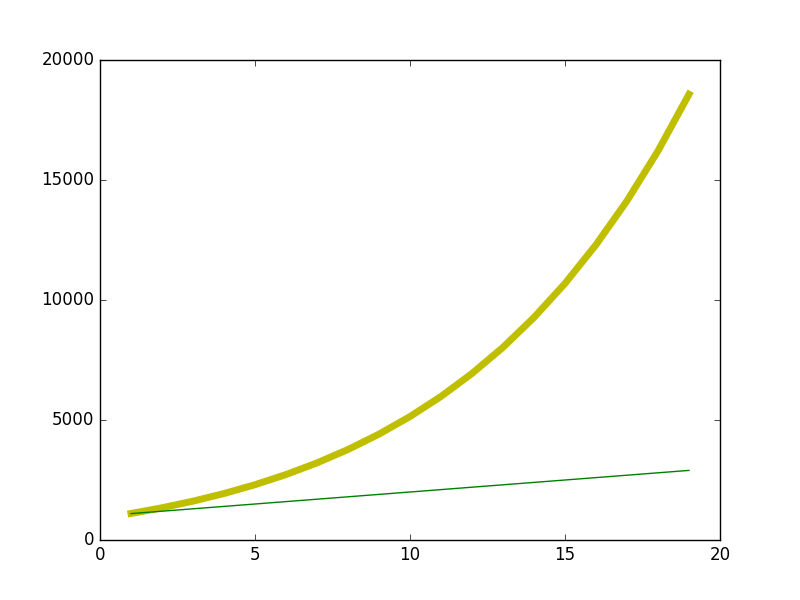
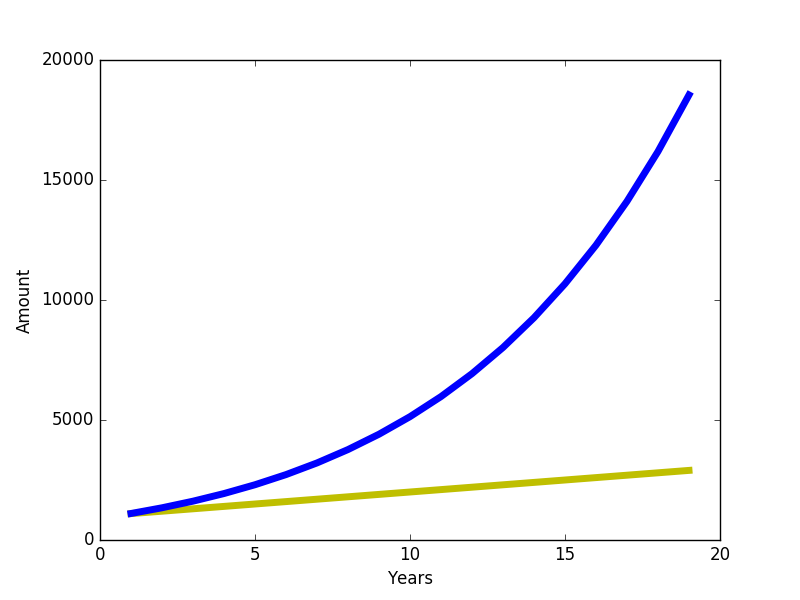
Changed lines
Plot curve over line,
fixed linewidth

diff --git a/compoundinterest.py b/compoundinterest.py
@@ -23,10 +23,12 @@ def interestrates(p,i,m,n,t):
 		a.append(x);
 		b.append(value);
 	plt.figure()
+	line = plt.plot(a, c)
+	plt.setp(line, color = 'y', linewidth = 5.0)
 	lines = plt.plot(a, b)
 	plt.setp(lines, color='b', linewidth = 5.0)
-	plt.plot(a, c)
-	plt.setp(lines, color = 'y', linewidth = 5.0)
+	plt.xlabel('Years')
+	plt.ylabel('Amount')
 	plt.savefig('compound.png')
 	plt.show()
 	return(value)
